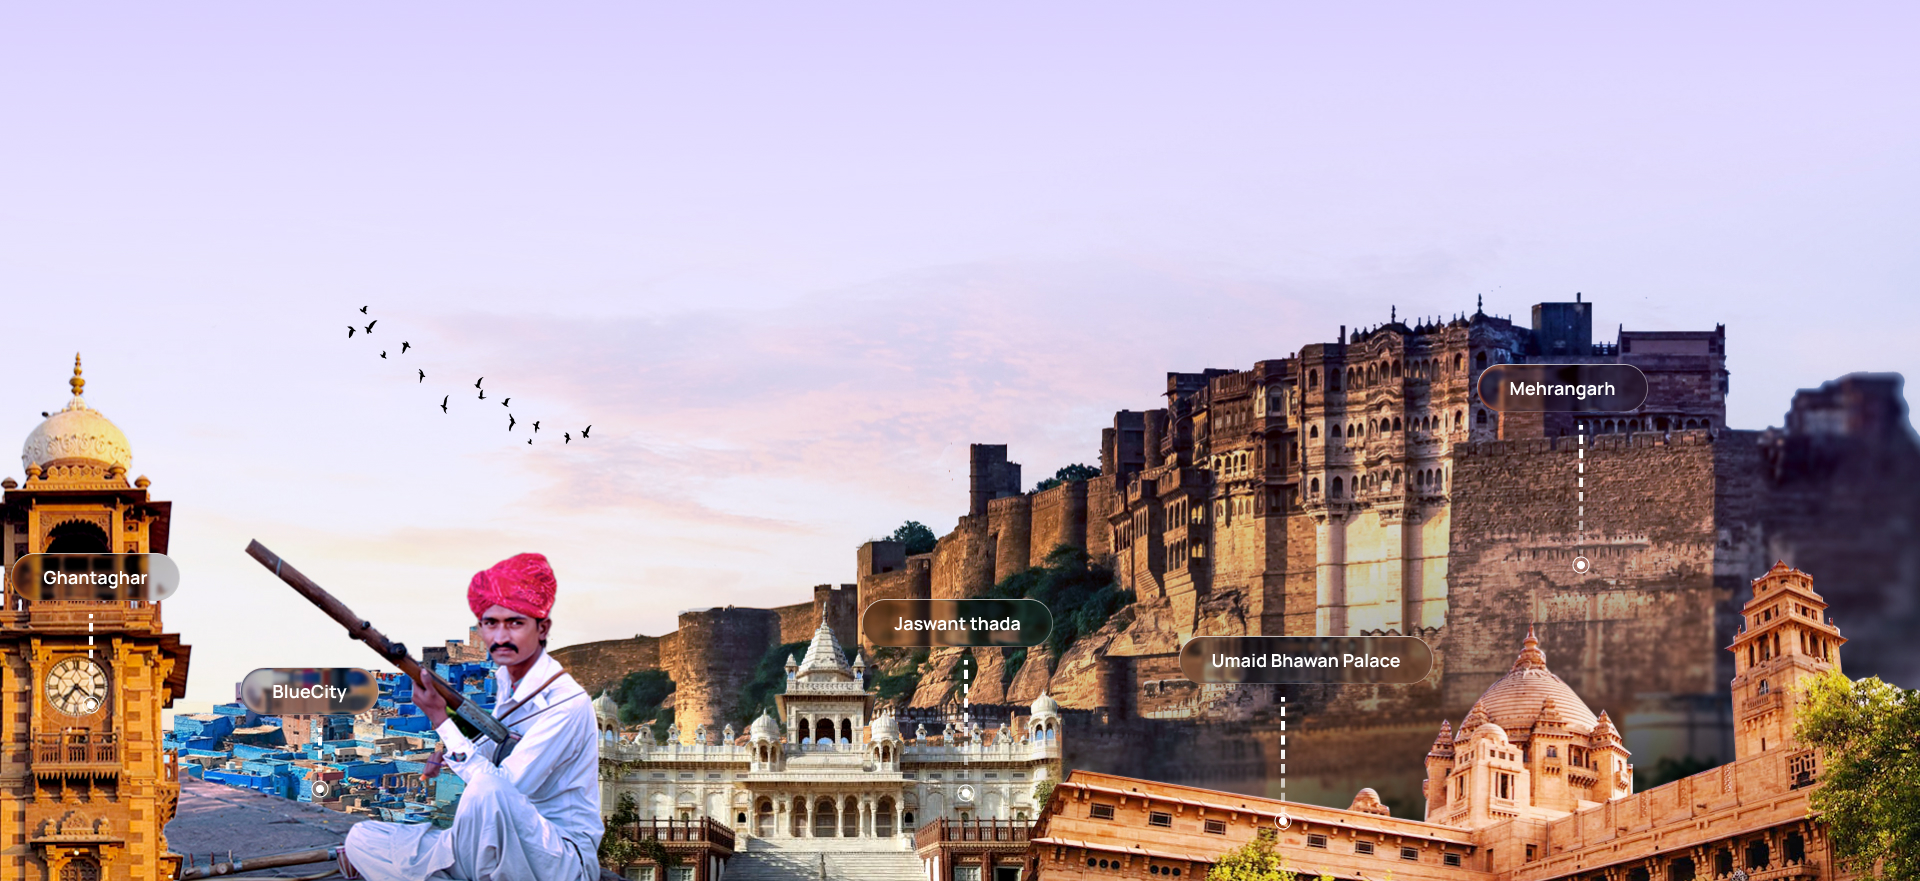
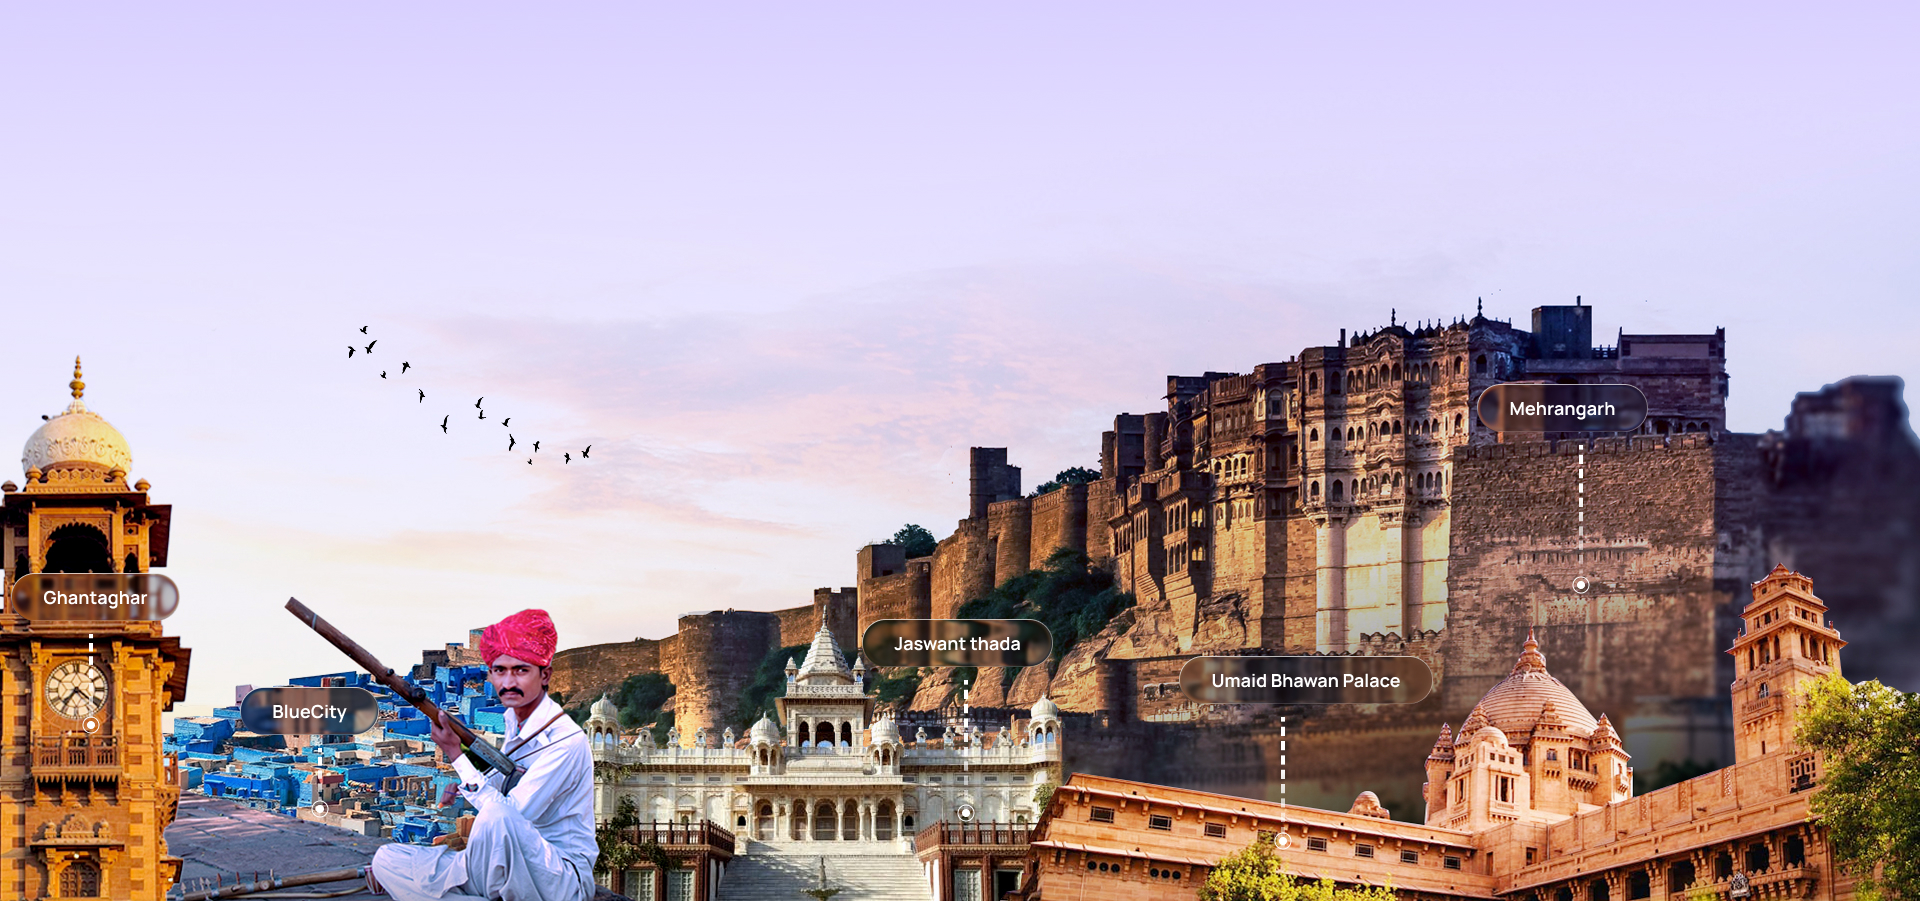
image upload

diff --git a/index.html b/index.html
@@ -104,7 +104,7 @@
         .hero-section {
             width: 100%; max-width: 100%; height: 900px;
             position: relative; display: flex;
-            background-image: url("assets/heroimage.jpg");
+            background-image: url("assets/heroimage.webp");
             background-size: cover; background-position: center;
             flex-direction: column; align-items: center;
             color: #001D3C; overflow: hidden;
